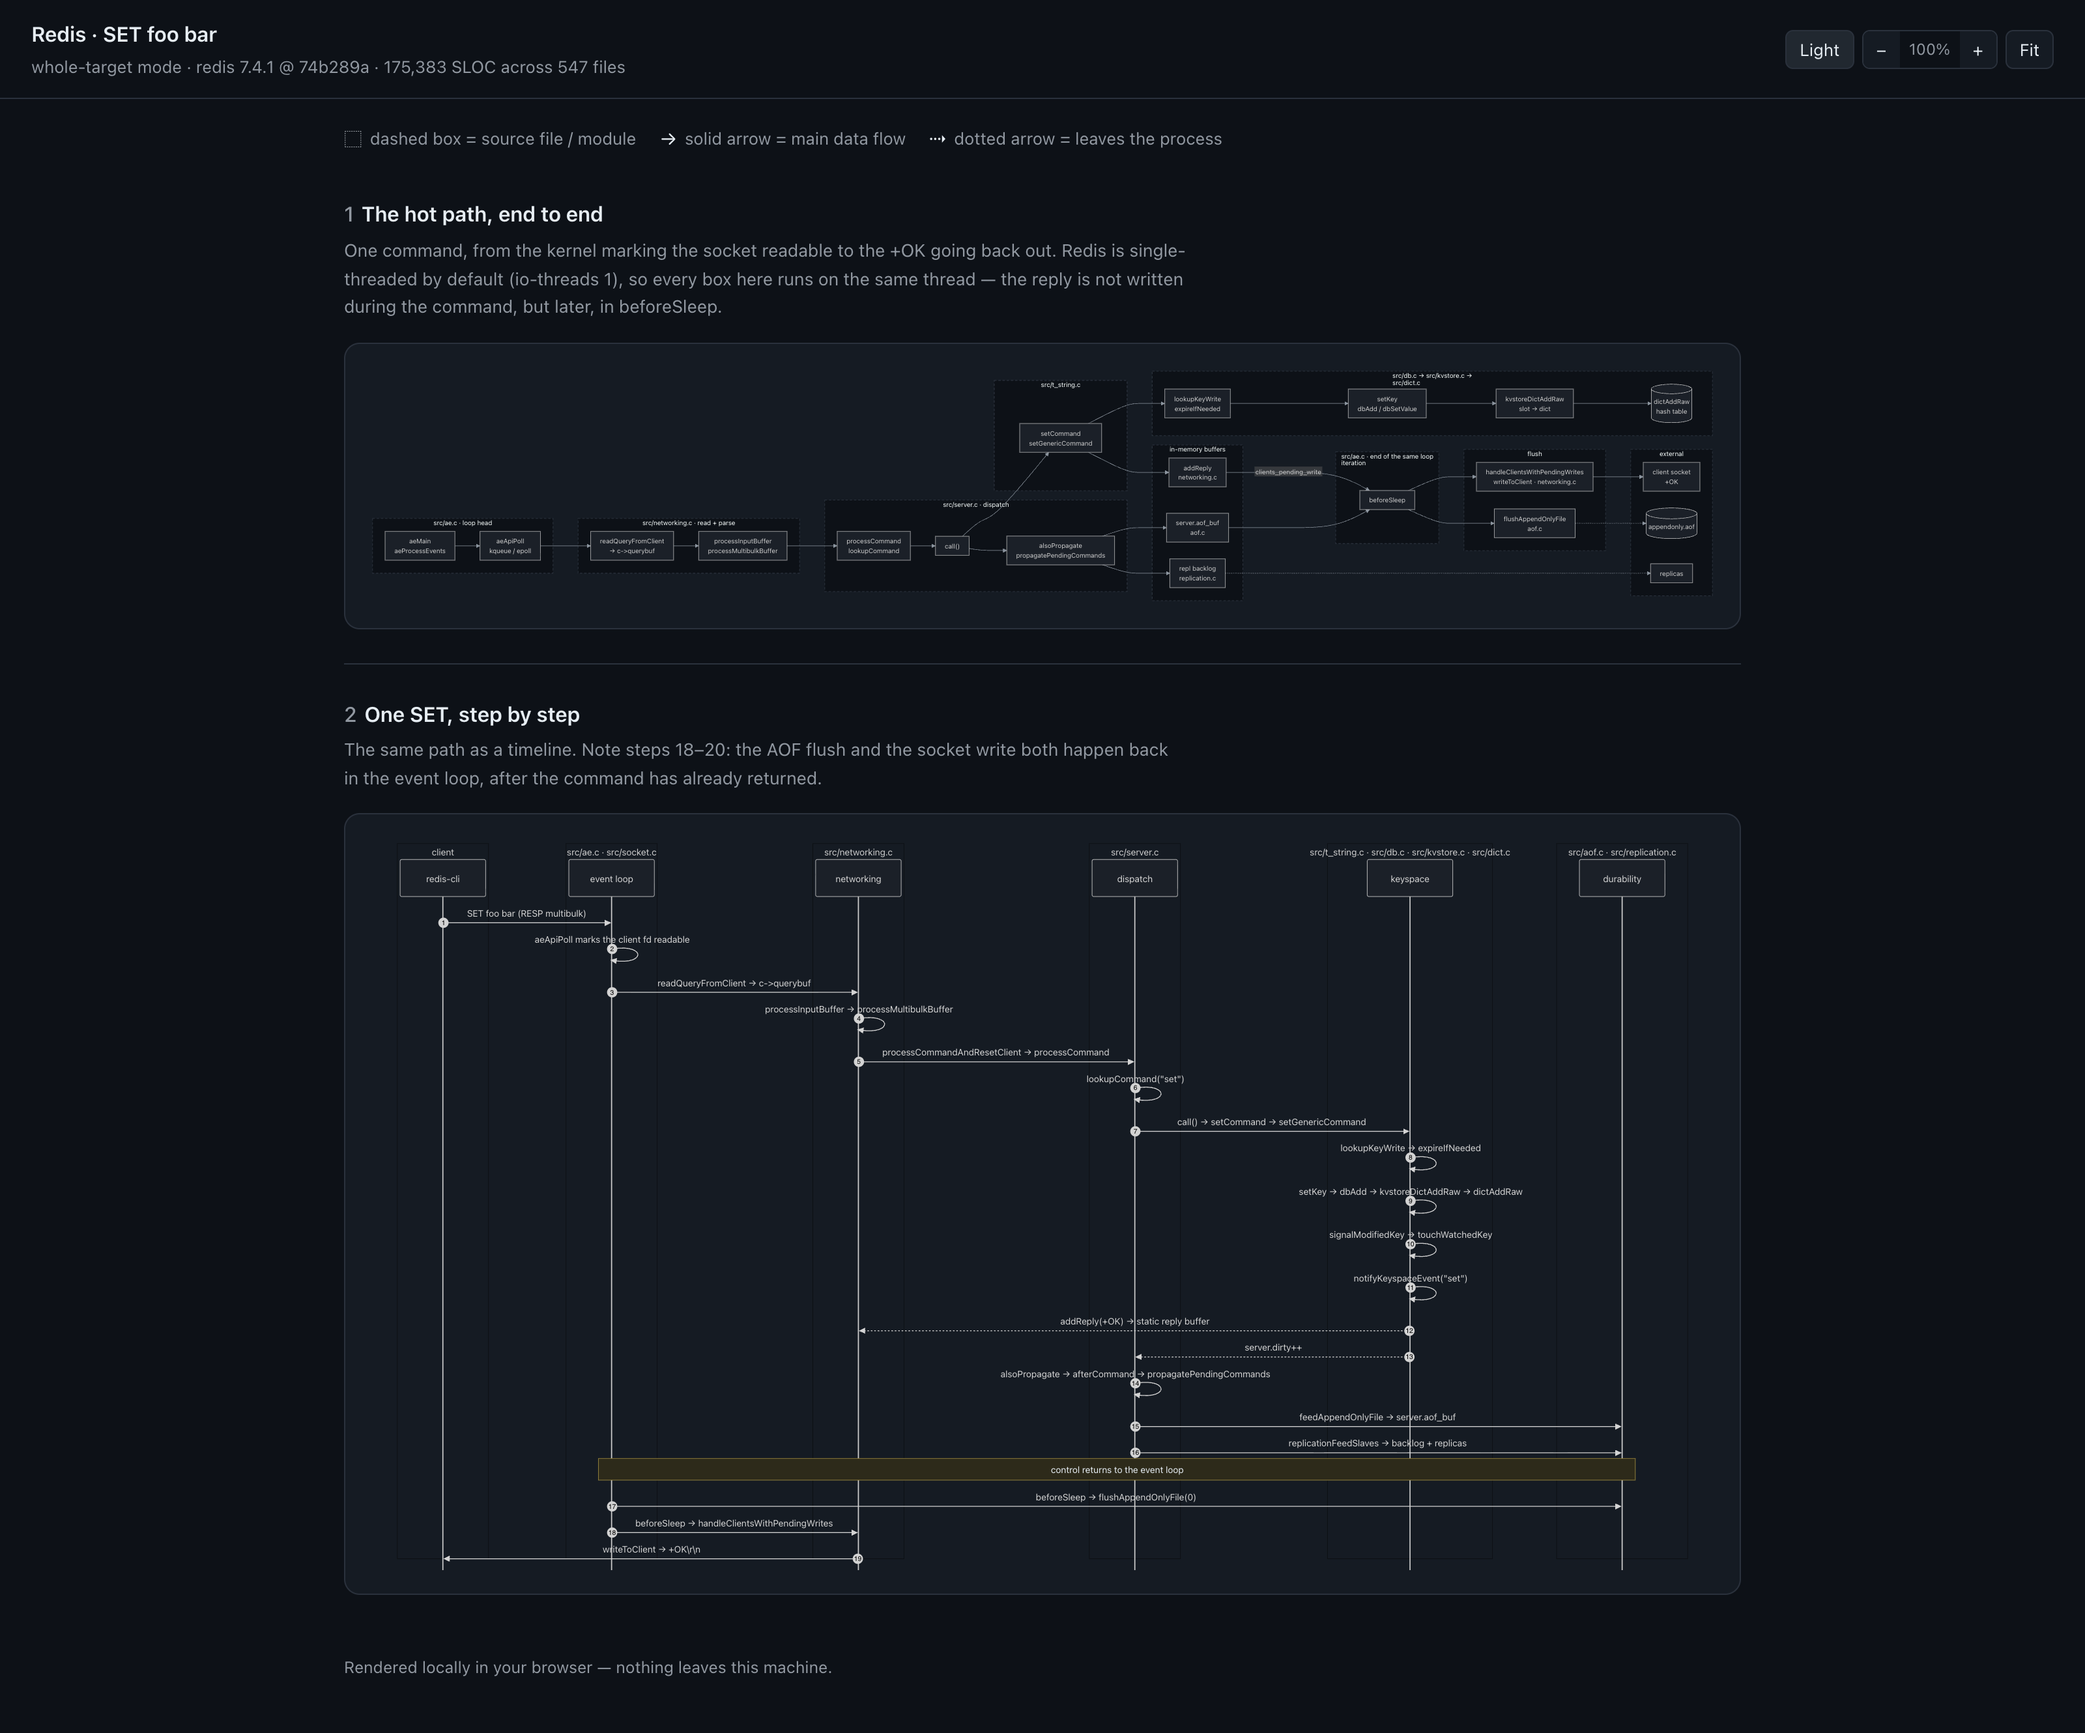
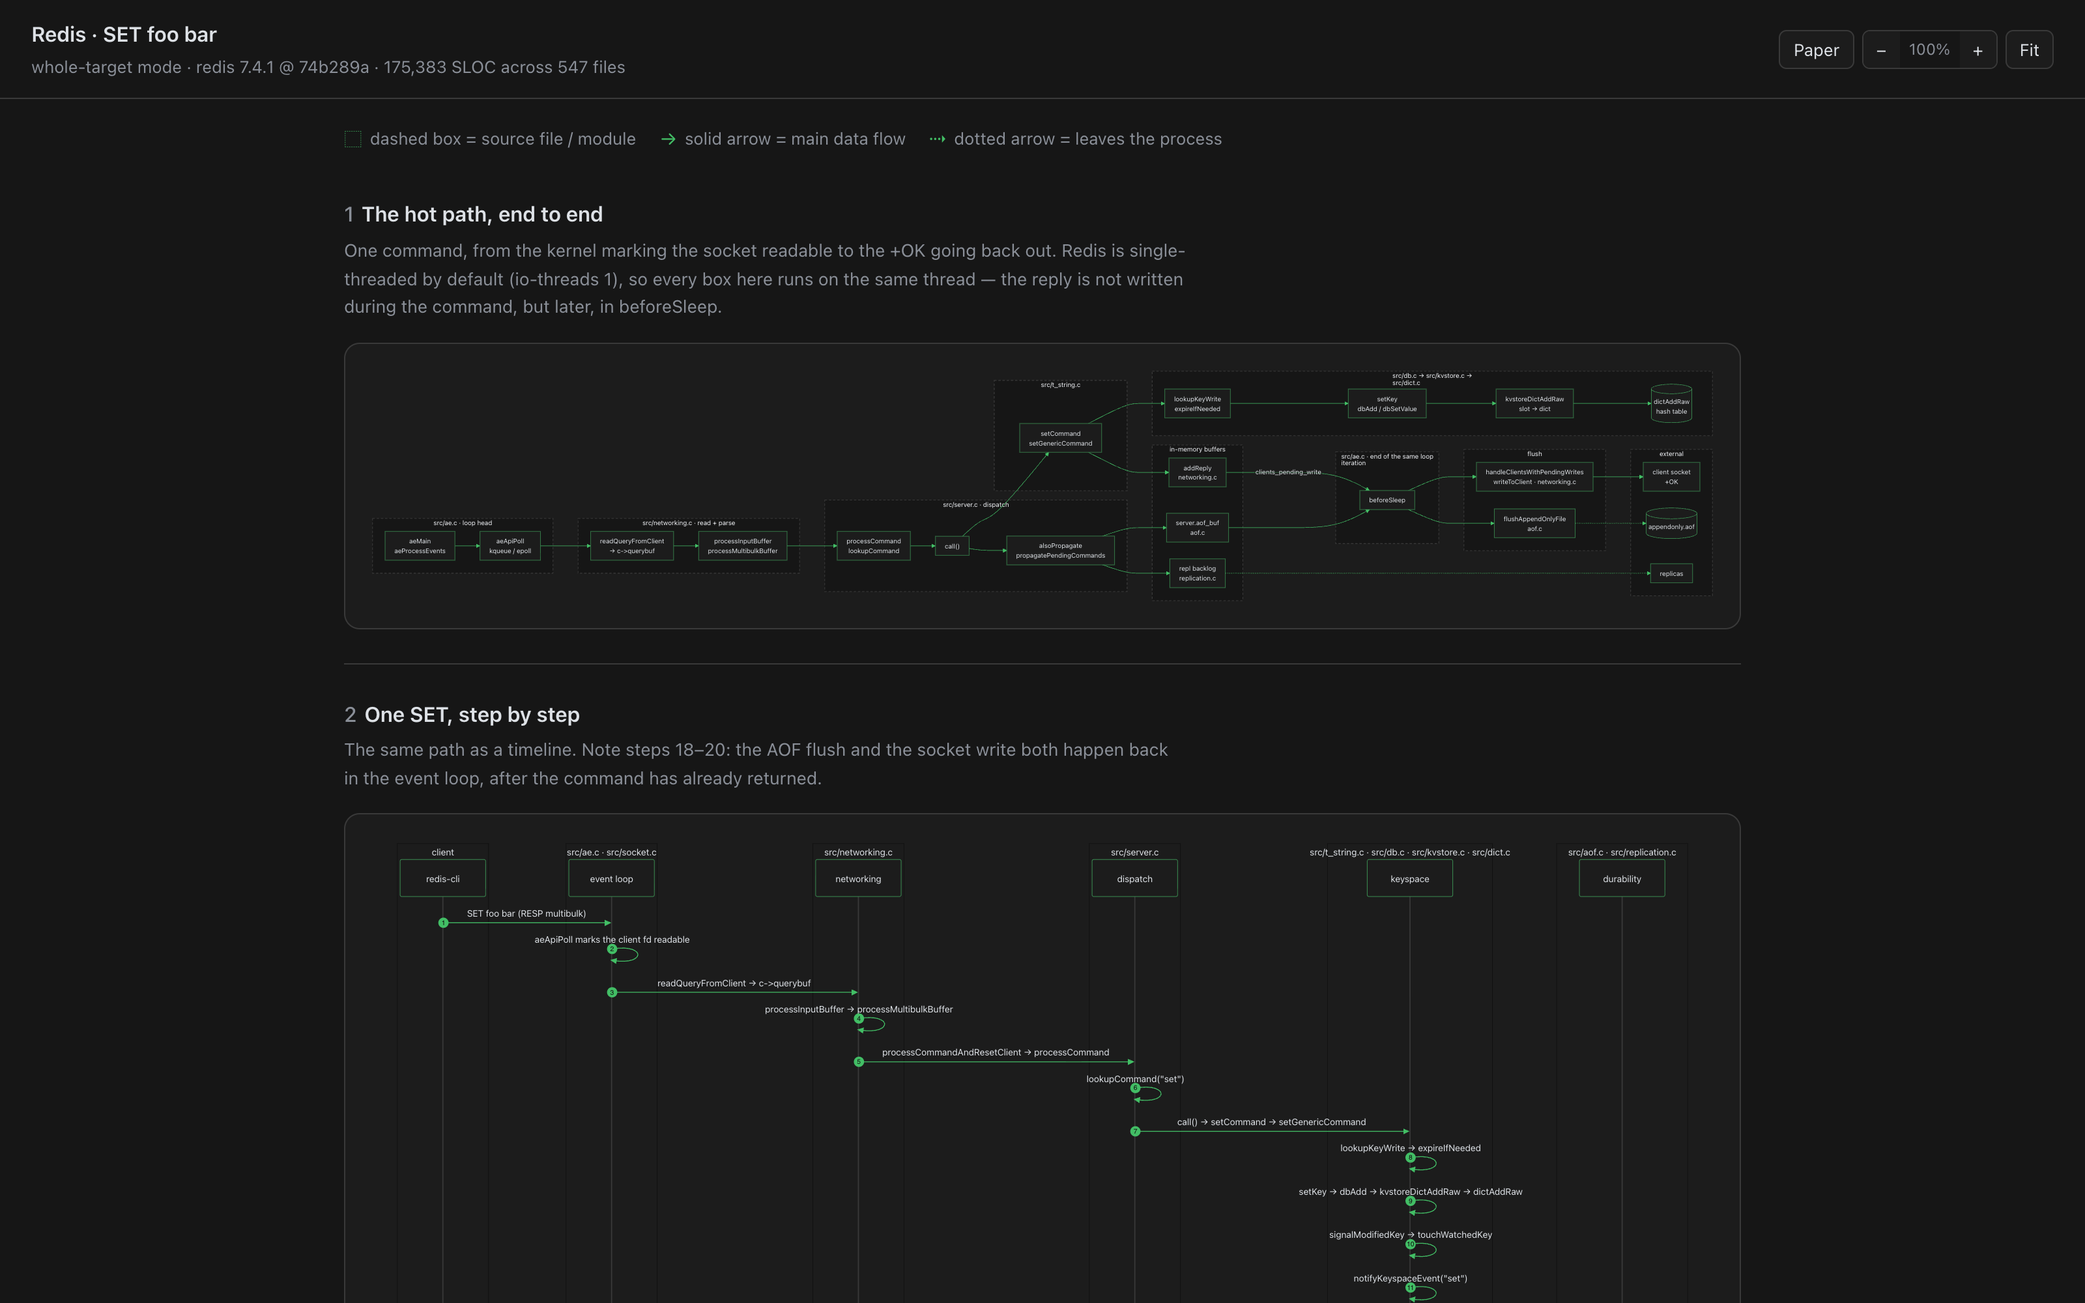
Recapture the two restyled gallery screenshots
🤖 Generated with [Nori](https://noriagentic.com)

Both README captures showed the old palette. Retaken at the house
standard (1600x1000, device pixel ratio 2, unretouched): the code
orientation viewer in carbon, the plan page in paper, so the gallery
shows one of each variant.

Also fixes two typos in the table and points the README at THEME.md.

diff --git a/README.md b/README.md
@@ -6,14 +6,16 @@ Captures below for the quick concept.
 
 | Skill | Capture |
 | --- | --- |
-| **[code-orientation](code-orientation/SKILL.md)**<br><br>Turn "I don't know this code yet" into numbers, a map, and a picture of the hot path.<br>Main fiew is: SLOC breakdown, annotated file tree, and diagrams served locally. Point it at a repo, a subfolder, a dependency, or a PR range.<br><br>*Shown: `redis` 7.4.1 at [`74b289a`](https://github.com/redis/redis/tree/74b289a0e12f9f65a6daeec6a66cadc76792f644), 175,383 SLOC across 547 files, tracing one `SET foo bar`.* | [<img src="code-orientation/screenshots/redis-set-hot-path.png" alt="The code-orientation viewer in dark mode, showing a block diagram and a sequence diagram of the Redis SET hot path" width="460">](code-orientation/screenshots/redis-set-hot-path.png) |
-| **[presenting-html-plans](presenting-html-plans/SKILL.md)**<br><br>Present a finished plan as a source-controlled local HTML page with Mermaid diagrams, content nav, and print styles. HTML viewer is quick to read and understand, but the plan stays MDX so it is also quick for the agent to read and understand.<br><br>*Shown: [the plan for this gallery](plans/skill-gallery-captures/plan.mdx), rendered by the bundled scaffold.* | [<img src="presenting-html-plans/screenshots/plan-page.png" alt="A rendered plan page with a contents sidebar, summary callout, and a comparison table" width="460">](presenting-html-plans/screenshots/plan-page.png) |
+| **[code-orientation](code-orientation/SKILL.md)**<br><br>Turn "I don't know this code yet" into numbers, a map, and a picture of the hot path.<br>Main view is: SLOC breakdown, annotated file tree, and diagrams served locally. Point it at a repo, a subfolder, a dependency, or a PR range.<br><br>*Shown: `redis` 7.4.1 at [`74b289a`](https://github.com/redis/redis/tree/74b289a0e12f9f65a6daeec6a66cadc76792f644), 175,383 SLOC across 547 files, tracing one `SET foo bar`. Carbon theme.* | [<img src="code-orientation/screenshots/redis-set-hot-path.png" alt="The code-orientation viewer in the carbon theme, showing a block diagram and a sequence diagram of the Redis SET hot path drawn in green" width="460">](code-orientation/screenshots/redis-set-hot-path.png) |
+| **[presenting-html-plans](presenting-html-plans/SKILL.md)**<br><br>Present a finished plan as a source-controlled local HTML page with Mermaid diagrams, content nav, and print styles. HTML viewer is quick to read and understand, but the plan stays MDX so it is also quick for the agent to read and understand.<br><br>*Shown: [the plan for this gallery](plans/skill-gallery-captures/plan.mdx), rendered by the bundled scaffold. Paper theme.* | [<img src="presenting-html-plans/screenshots/plan-page.png" alt="A rendered plan page in the paper theme, with a contents sidebar, summary callout, and a comparison table" width="460">](presenting-html-plans/screenshots/plan-page.png) |
 | **[making-isometric-system-maps](making-isometric-system-maps/README.md#kubernetes-gallery)**<br><br>Draft: interactive isometric system maps. Select a component to light up its relationships, or trace a flow step by step with automatic camera moves<br><br>*Shown: a Kubernetes Deployment and ClusterIP Service, mid flow-trace. [More captures](making-isometric-system-maps/README.md#kubernetes-gallery).* | [<img src="making-isometric-system-maps/screenshots/kubernetes/desktop-flow.png" alt="An isometric Kubernetes system map mid flow-trace, with the camera zoomed to the active step and an explainer panel" width="460">](making-isometric-system-maps/screenshots/kubernetes/desktop-flow.png) |
 | **[remote-browser-cdp-kvm](remote-browser-cdp-kvm/SKILL.md)**<br><br>Drive one persistent, logged-in Chrome over CDP through small repeatable verbs, and hand human-only steps (login, CAPTCHA, SSO, 2FA, sign-off) to a private phone-friendly KVM over your tailnet.<br><br>*Shown: agent shares "I'm not a robot" screen to the human, and tailnet plus Android split screen makes it easy to interact with the agent and browser both. Real recording, obviously sped up.* | [<img src="remote-browser-cdp-kvm/screenshots/kvm-captcha-handoff.gif" alt="A phone in split screen: the shared browser tab showing a reCAPTCHA image challenge above, the driving agent's terminal below" width="300">](remote-browser-cdp-kvm/screenshots/kvm-captcha-handoff.gif) |
-| **[tui-puppeteering-with-tmux](tui-puppeteering-with-tmux/SKILL.md)**<br><br>Isolated tmux sessions for automating and testing TUI and CLI applications. `tui-start` brings a program up on a dedicated socket, `tui-send` delivers keystrokes, `tui-capture` dumps the screen as text, and `tui-assert` refuses to continue until the expected state is actually on screen (the wait for action needed to drive the interactions). Nothing it does can reach your own tmux.<br><br>*Shown: Nori CLI at launch, and then same CLI with its session config picker open. Started and driven by this another agent.* | [<img src="tui-puppeteering-with-tmux/captures/nori-cli-launch.png" alt="The Nori CLI at launch, showing the version banner, workspace, agent, and Claude Code options line" width="460">](tui-puppeteering-with-tmux/captures/nori-cli-launch.png)<br><br>[<img src="tui-puppeteering-with-tmux/captures/nori-cli-config.png" alt="The Nori CLI session config picker, listing Mode, Model and Effort with Model selected" width="460">](tui-puppeteering-with-tmux/captures/nori-cli-config.png) |
+| **[tui-puppeteering-with-tmux](tui-puppeteering-with-tmux/SKILL.md)**<br><br>Isolated tmux sessions for automating and testing TUI and CLI applications. `tui-start` brings a program up on a dedicated socket, `tui-send` delivers keystrokes, `tui-capture` dumps the screen as text, and `tui-assert` refuses to continue until the expected state is actually on screen (the wait for action needed to drive the interactions). Nothing it does can reach your own tmux.<br><br>*Shown: Nori CLI at launch, and then same CLI with its session config picker open. Started and driven by another agent.* | [<img src="tui-puppeteering-with-tmux/captures/nori-cli-launch.png" alt="The Nori CLI at launch, showing the version banner, workspace, agent, and Claude Code options line" width="460">](tui-puppeteering-with-tmux/captures/nori-cli-launch.png)<br><br>[<img src="tui-puppeteering-with-tmux/captures/nori-cli-config.png" alt="The Nori CLI session config picker, listing Mode, Model and Effort with Model selected" width="460">](tui-puppeteering-with-tmux/captures/nori-cli-config.png) |
 | **[tui-capture-with-ghostty-web](tui-capture-with-ghostty-web/SKILL.md)**<br><br>Capture a tmux-driven TUI as paired plain-text and Ghostty Web PNG artifacts, for visual QA, documentation, and screenshot regression evidence. Every capture writes `screen.txt`, `screen.ansi`, `screen.png`, and a `metadata.json` carrying the grid, the pinned renderer version, and a PNG checksum.<br><br>*Shown: `bat` rendering this repo's own `sloc.py`, captured at 120×40 by `ghostty-web@0.4.0`. The [paired text](tui-capture-with-ghostty-web/screenshots/bat-sloc-render.txt) is committed beside it.* | [<img src="tui-capture-with-ghostty-web/screenshots/bat-sloc-render.png" alt="A Ghostty Web render of bat displaying syntax-highlighted Python source with line numbers and a file header" width="460">](tui-capture-with-ghostty-web/screenshots/bat-sloc-render.png) |
 
-Each skill's code and instructions live under its own directory.
+Each skill's code and instructions live under its own directory. Every HTML
+surface above shares one palette in two variants — black on warm paper drawn in
+charcoal, and white on black drawn in green — documented in [THEME](THEME.md).
 
 ## License and provenance
 
